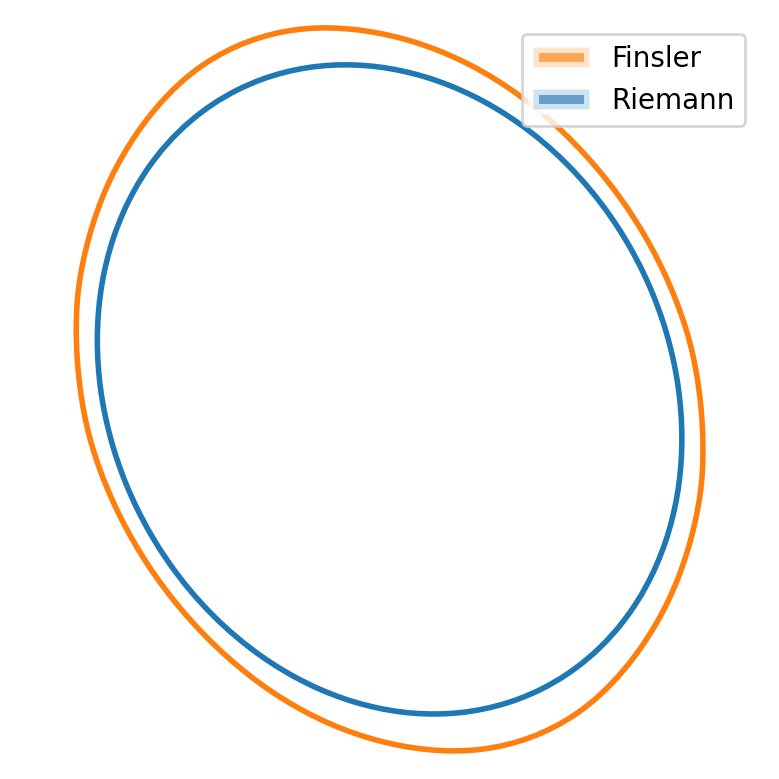
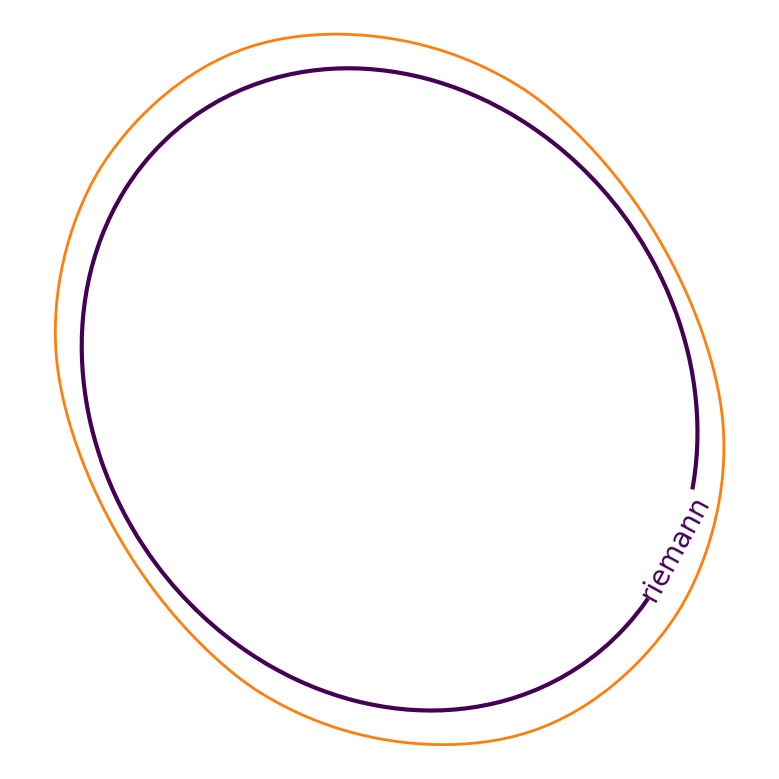
visualisation high dim

diff --git a/finsler/visualisation/indicatrices.py b/finsler/visualisation/indicatrices.py
@@ -224,20 +224,31 @@ def PolyArea(vertices):
     return 0.5 * np.abs(np.dot(x, np.roll(y, 1)) - np.dot(y, np.roll(x, 1)))
 
 
-def contour_high_dim(finsler, riemann, out_dir, name, title=None):
+def contour_high_dim(finslers, riemanns, dims, out_dir, name, title=None, legend=True):
     fig, axs = plt.subplots(1, 1, sharex=True, sharey=True)
-    axs.contour(finsler, (1,), colors="tab:orange", linewidths=2)
-    axs.contour(
-        riemann,
-        (1,),
-        colors="tab:blue",
-        linewidths=2,
-    )
-    # axs.contour(custom, (1,), colors="tab:green", linewidths=2, linestyles='dashed')
-    proxy1 = plt.Rectangle((0, 0), 1, 1, fc="tab:orange", ec="white", alpha=0.7, linewidth=4)
-    proxy2 = plt.Rectangle((0, 0), 1, 1, fc="tab:blue", ec="white", alpha=0.7, linewidth=4)
-    # proxy3 = plt.Rectangle((0, 0), 1, 1, fc="tab:green", ec="white", alpha=0.7, linewidth=4)
-    axs.legend(handles=[proxy1, proxy2], labels=["Finsler", "Riemann"])
+    norm = plt.Normalize()
+    colorf = plt.cm.autumn(norm(range(len(dims)))[::-1])
+    csf = []
+    for idx, dim in enumerate(dims):
+        csf.append(axs.contour(finslers[idx], (1,), colors=colorf[idx].reshape(-1, 4), linewidths=1, alpha=0.5))
+    csr = axs.contour(riemanns[idx], (1,), colors="k", linewidths=1, linestyles=[(0, (1, 5))])
+
+    if legend:
+        labels = ["Finsler, dim: {}".format(dim) for dim in dims]
+        artists = []
+        for i, label in enumerate(labels):
+            artists.append(csf[i].legend_elements()[0][0])
+        artists.append(csr.legend_elements()[0][0])
+        labels.append("Riemann, dim: {}".format(dims[-1]))
+        axs.legend(
+            handles=artists,
+            labels=labels,
+            prop={"size": 6},
+            loc="lower center",
+            ncol=len(labels),
+            bbox_to_anchor=(0.5, -0.05),
+        )
+
     axs.set_xticks([])
     axs.set_yticks([])
     axs.set_aspect("equal")
@@ -248,14 +259,30 @@ def contour_high_dim(finsler, riemann, out_dir, name, title=None):
 
 def contour_bounds(finsler, riemann, lower, out_dir, name, title=None, legend=False):
     fig, axs = plt.subplots(1, 1, sharex=True, sharey=True)
-    axs.contour(finsler, (1,), colors="tab:orange", linewidths=2)
-    axs.contour(riemann, (1,), colors="tab:blue", linewidths=2)
-    axs.contour(lower, (1,), colors="tab:green", linewidths=2)
+    cs = []
+    cs.append(axs.contour(finsler, (1,), colors="tab:orange", linewidths=1))
+    cs.append(axs.contour(riemann, (1,), colors="tab:blue", linewidths=1))
+    cs.append(axs.contour(lower, (1,), colors="tab:green", linewidths=1))
+
     if legend:
-        proxy1 = plt.Rectangle((0, 0), 1, 1, fc="tab:orange", ec="white", alpha=0.7, linewidth=4)
-        proxy2 = plt.Rectangle((0, 0), 1, 1, fc="tab:blue", ec="white", alpha=0.7, linewidth=4)
-        proxy3 = plt.Rectangle((0, 0), 1, 1, fc="tab:green", ec="white", alpha=0.7, linewidth=4)
-        axs.legend(handles=[proxy1, proxy2, proxy3], labels=["Finsler", "Riemann", "Lower bound"])
+        labels = ["Finsler", "Riemann", "Lower bound"]
+        artists = []
+        for i, label in enumerate(labels):
+            artists.append(cs[i].legend_elements()[0][0])
+        axs.legend(
+            handles=artists,
+            labels=labels,
+            prop={"size": 6},
+            loc="lower center",
+            ncol=len(labels),
+            bbox_to_anchor=(0.5, -0.05),
+        )
+
+    # if legend:
+    #     proxy1 = plt.Rectangle((0, 0), 1, 1, fc="tab:orange", ec="white", alpha=0.7, linewidth=4)
+    #     proxy2 = plt.Rectangle((0, 0), 1, 1, fc="tab:blue", ec="white", alpha=0.7, linewidth=4)
+    #     proxy3 = plt.Rectangle((0, 0), 1, 1, fc="tab:green", ec="white", alpha=0.7, linewidth=4)
+    #     axs.legend(handles=[proxy1, proxy2, proxy3], labels=["Finsler", "Riemann", "Lower bound"])
     axs.set_xticks([])
     axs.set_yticks([])
     axs.set_aspect("equal")

diff --git a/examples/high_dimensions.py b/examples/high_dimensions.py
@@ -9,10 +9,10 @@ from finsler.visualisation.indicatrices import contour_high_dim, contour_test
 
 def get_args():
     parser = argparse.ArgumentParser()
-    parser.add_argument("--outDir", default="plots/high_dimensions/", type=str)
+    parser.add_argument("--outDir", default="latent_distances_finsler/plots/high_dimensions/", type=str)
     parser.add_argument("--seed", default=8, type=int)
     parser.add_argument("--q", default=2, type=int)
-    parser.add_argument("--D", default=10, type=int)
+    parser.add_argument("--D", default=5, type=int)
     parser.add_argument("--num_samples", default=100, type=int)
     opts = parser.parse_args()
     return opts
@@ -59,29 +59,39 @@ def test_simulation():
 
 if __name__ == "__main__":
     opts = get_args()
-    np.random.seed(opts.seed)  # 12 #31
-    # simulate central gaussian and central wishart
-    loc = np.random.randn()
-    scale = np.random.random()
-    size = (opts.q, opts.D, opts.num_samples)  # J.T used here for compute
-    ncgauss = np.random.normal(loc, scale, size)
-    for dim in range(opts.q + 1, opts.D):
-        ncgauss_tronc = ncgauss[:, :dim, :]
-        ncwihsart = np.einsum("ijk,mjk->imk", ncgauss_tronc, ncgauss_tronc)
 
-        tensor = Tensor()
-        exp_whishart = np.mean(ncwihsart, axis=2)
-        alpha = automated_scaling(exp_whishart)
+    dims = [3, 5, 50]
+    finsler_indicatrices = np.empty((len(dims), 64, 64))
+    riemann_indicatrices = np.empty((len(dims), 64, 64))
+    size = (opts.q, dims[-1], opts.num_samples)  # J.T used here for compute
 
-        vectors = np.linspace(-1.1 * alpha, 1.1 * alpha, 64)
-        indicatrix = Indicatrices(3, vectors)
-        finsler_indicatrix = indicatrix.simulated_finsler(ncwihsart)
-        riemann_indicatrix = indicatrix.simulated_riemann(ncwihsart)
+    for opts.seed in range(21):
+        np.random.seed(opts.seed)  # 12 #31
+        # simulate central gaussian and central wishart
+        loc = np.random.randn()
+        scale = np.random.random()
+        ncgauss = np.random.normal(loc, scale, size)
+
+        for idx, dim in enumerate(dims):
+            ncgauss_tronc = ncgauss[:, :dim, :]
+            print("dimension: {}".format(ncgauss_tronc.shape))
+            ncwihsart = np.einsum("ijk,mjk->imk", ncgauss_tronc, ncgauss_tronc)
+
+            tensor = Tensor()
+            exp_whishart = np.mean(ncwihsart, axis=2)
+            alpha = automated_scaling(exp_whishart)
+
+            vectors = np.linspace(-1.1 * alpha, 1.1 * alpha, 64)
+            indicatrix = Indicatrices(3, vectors)
+            finsler_indicatrices[idx] = indicatrix.simulated_finsler(ncwihsart)
+            riemann_indicatrices[idx] = indicatrix.simulated_riemann(ncwihsart)
 
         contour_high_dim(
-            finsler_indicatrix,
-            riemann_indicatrix,
-            opts.outDir,
+            finslers=finsler_indicatrices,
+            riemanns=riemann_indicatrices,
+            dims=dims,
+            out_dir=opts.outDir,
             # title="mean: {}, cov: {}".format(mean, cov),
-            name="high_dim_{}_seed_{}".format(dim, opts.seed),
+            name="high_dim_seed_{}".format(opts.seed),
         )
+        print("high_dim_seed_{} was saved!".format(opts.seed))

diff --git a/examples/indicatrices.py b/examples/indicatrices.py
@@ -12,7 +12,7 @@ from finsler.visualisation.indicatrices import PolyArea, contour_bounds
 
 def get_args():
     parser = argparse.ArgumentParser()
-    parser.add_argument("--outDir", default="plots/indicatrices/", type=str)
+    parser.add_argument("--outDir", default="latent_distances_finsler/plots/indicatrices/", type=str)
     parser.add_argument("--seed", default=7, type=int)
     opts = parser.parse_args()
     return opts
@@ -208,7 +208,7 @@ if __name__ == "__main__":
 
     opts = get_args()
 
-    for opts.seed in range(10):
+    for opts.seed in range(21):
         np.random.seed(opts.seed)  # 12 #31
         mean = psd_matrix(1e-6 + np.random.rand(2))
         # mean = np.empty((2,2))
@@ -233,4 +233,5 @@ if __name__ == "__main__":
             opts.outDir,
             # title="mean: {}, cov: {}".format(mean, cov),
             name="indicatrix_comparison_{}".format(opts.seed),
+            legend=True,
         )
